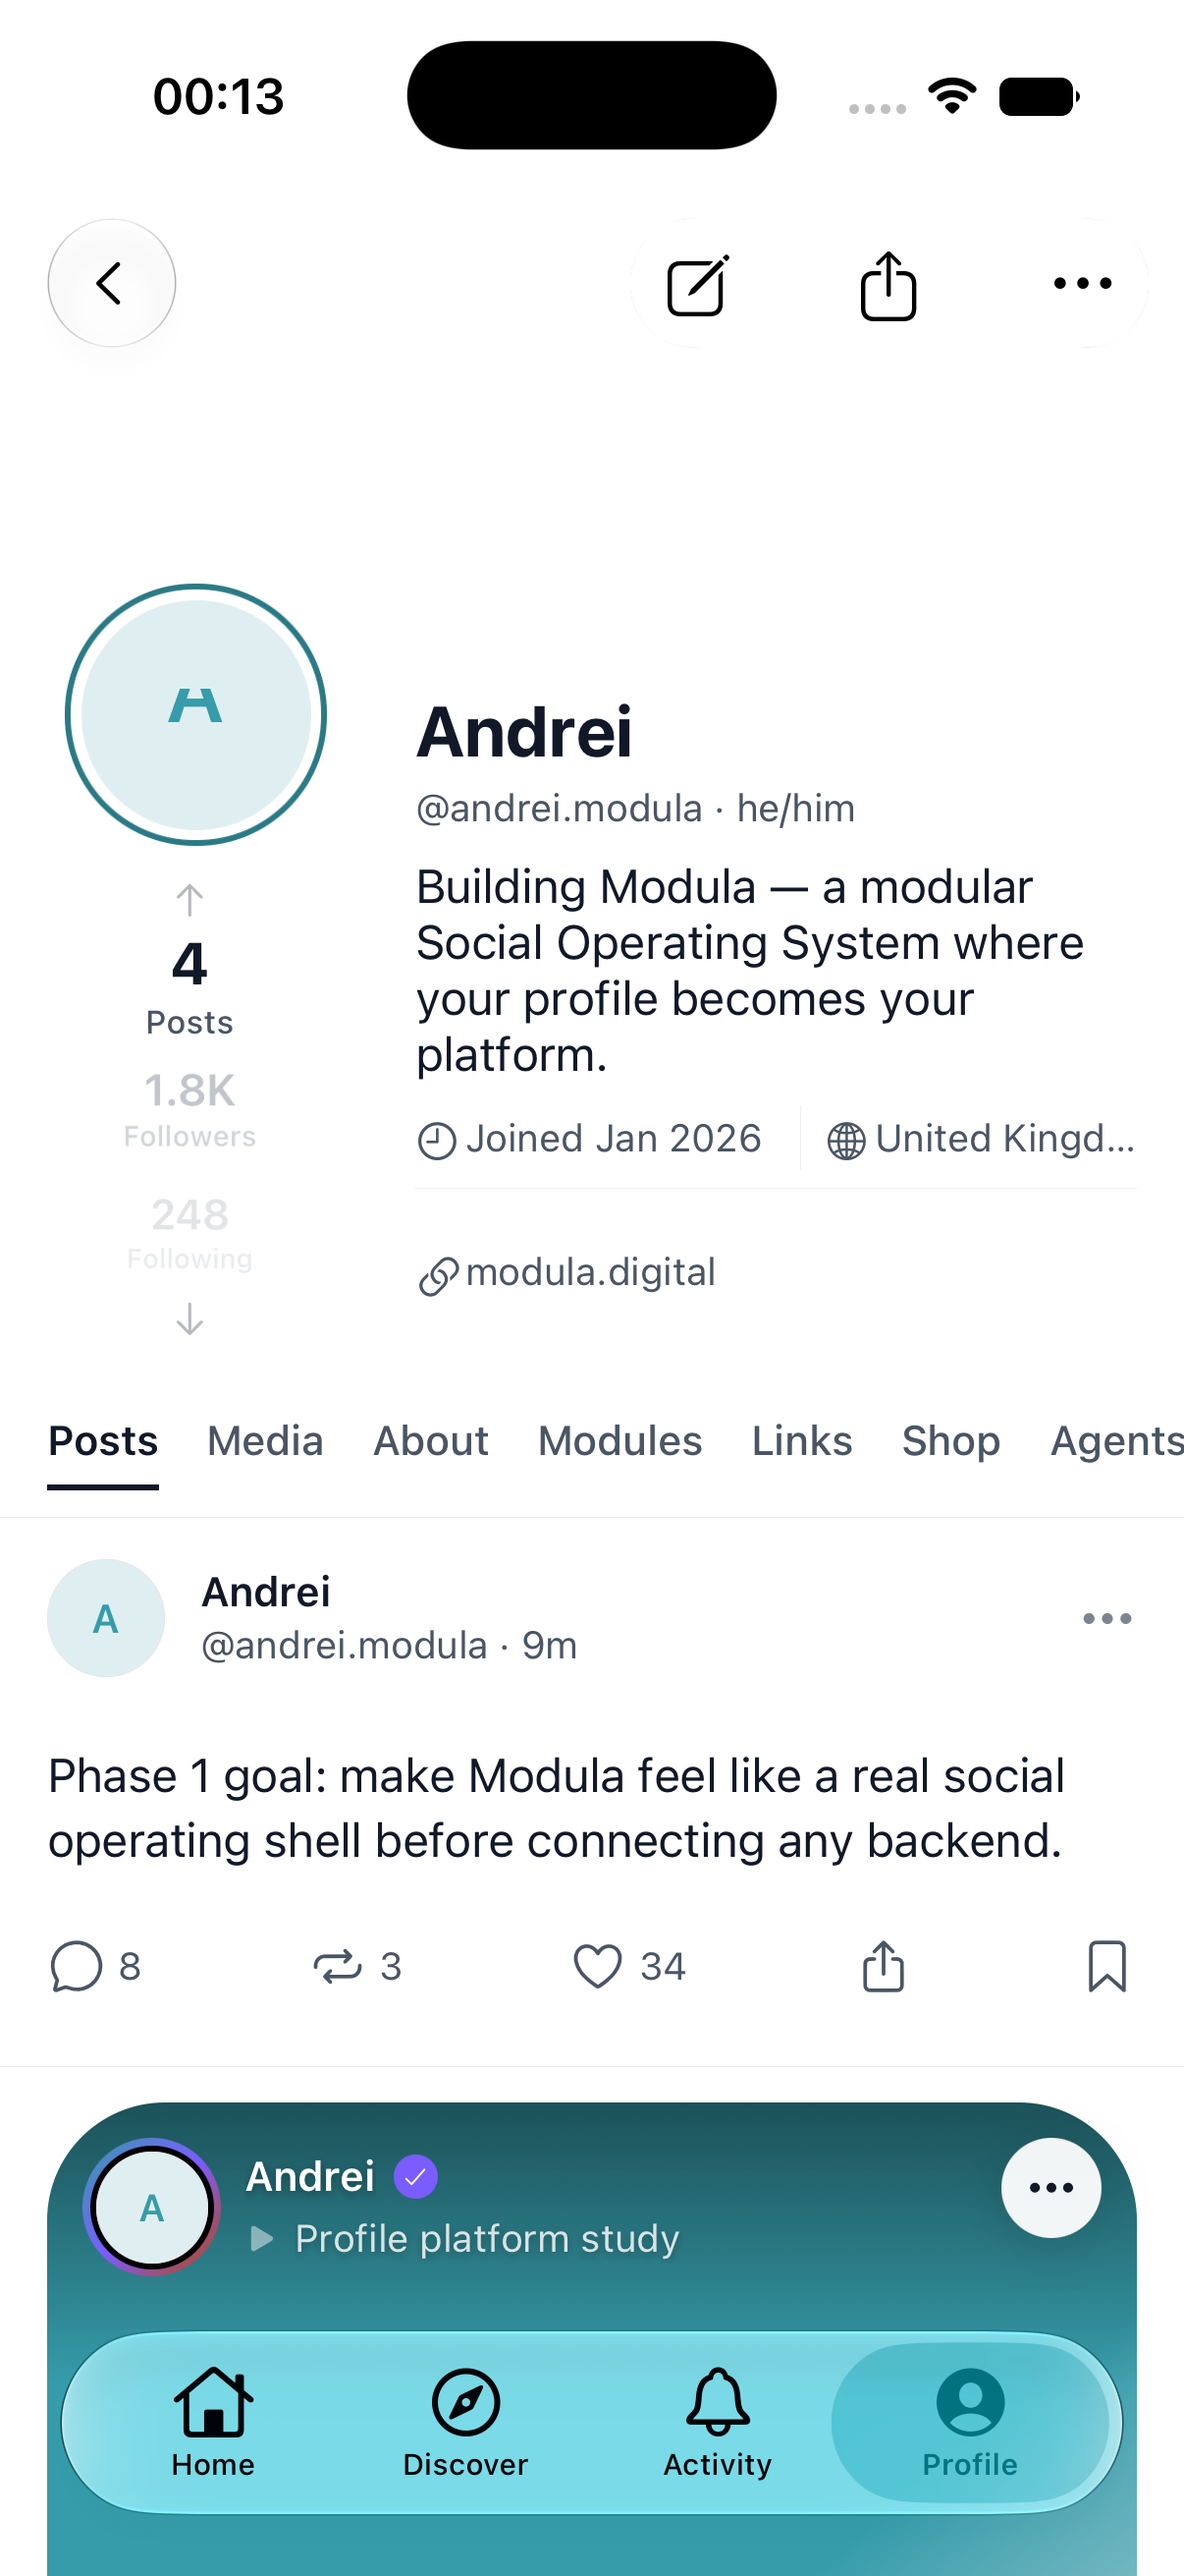
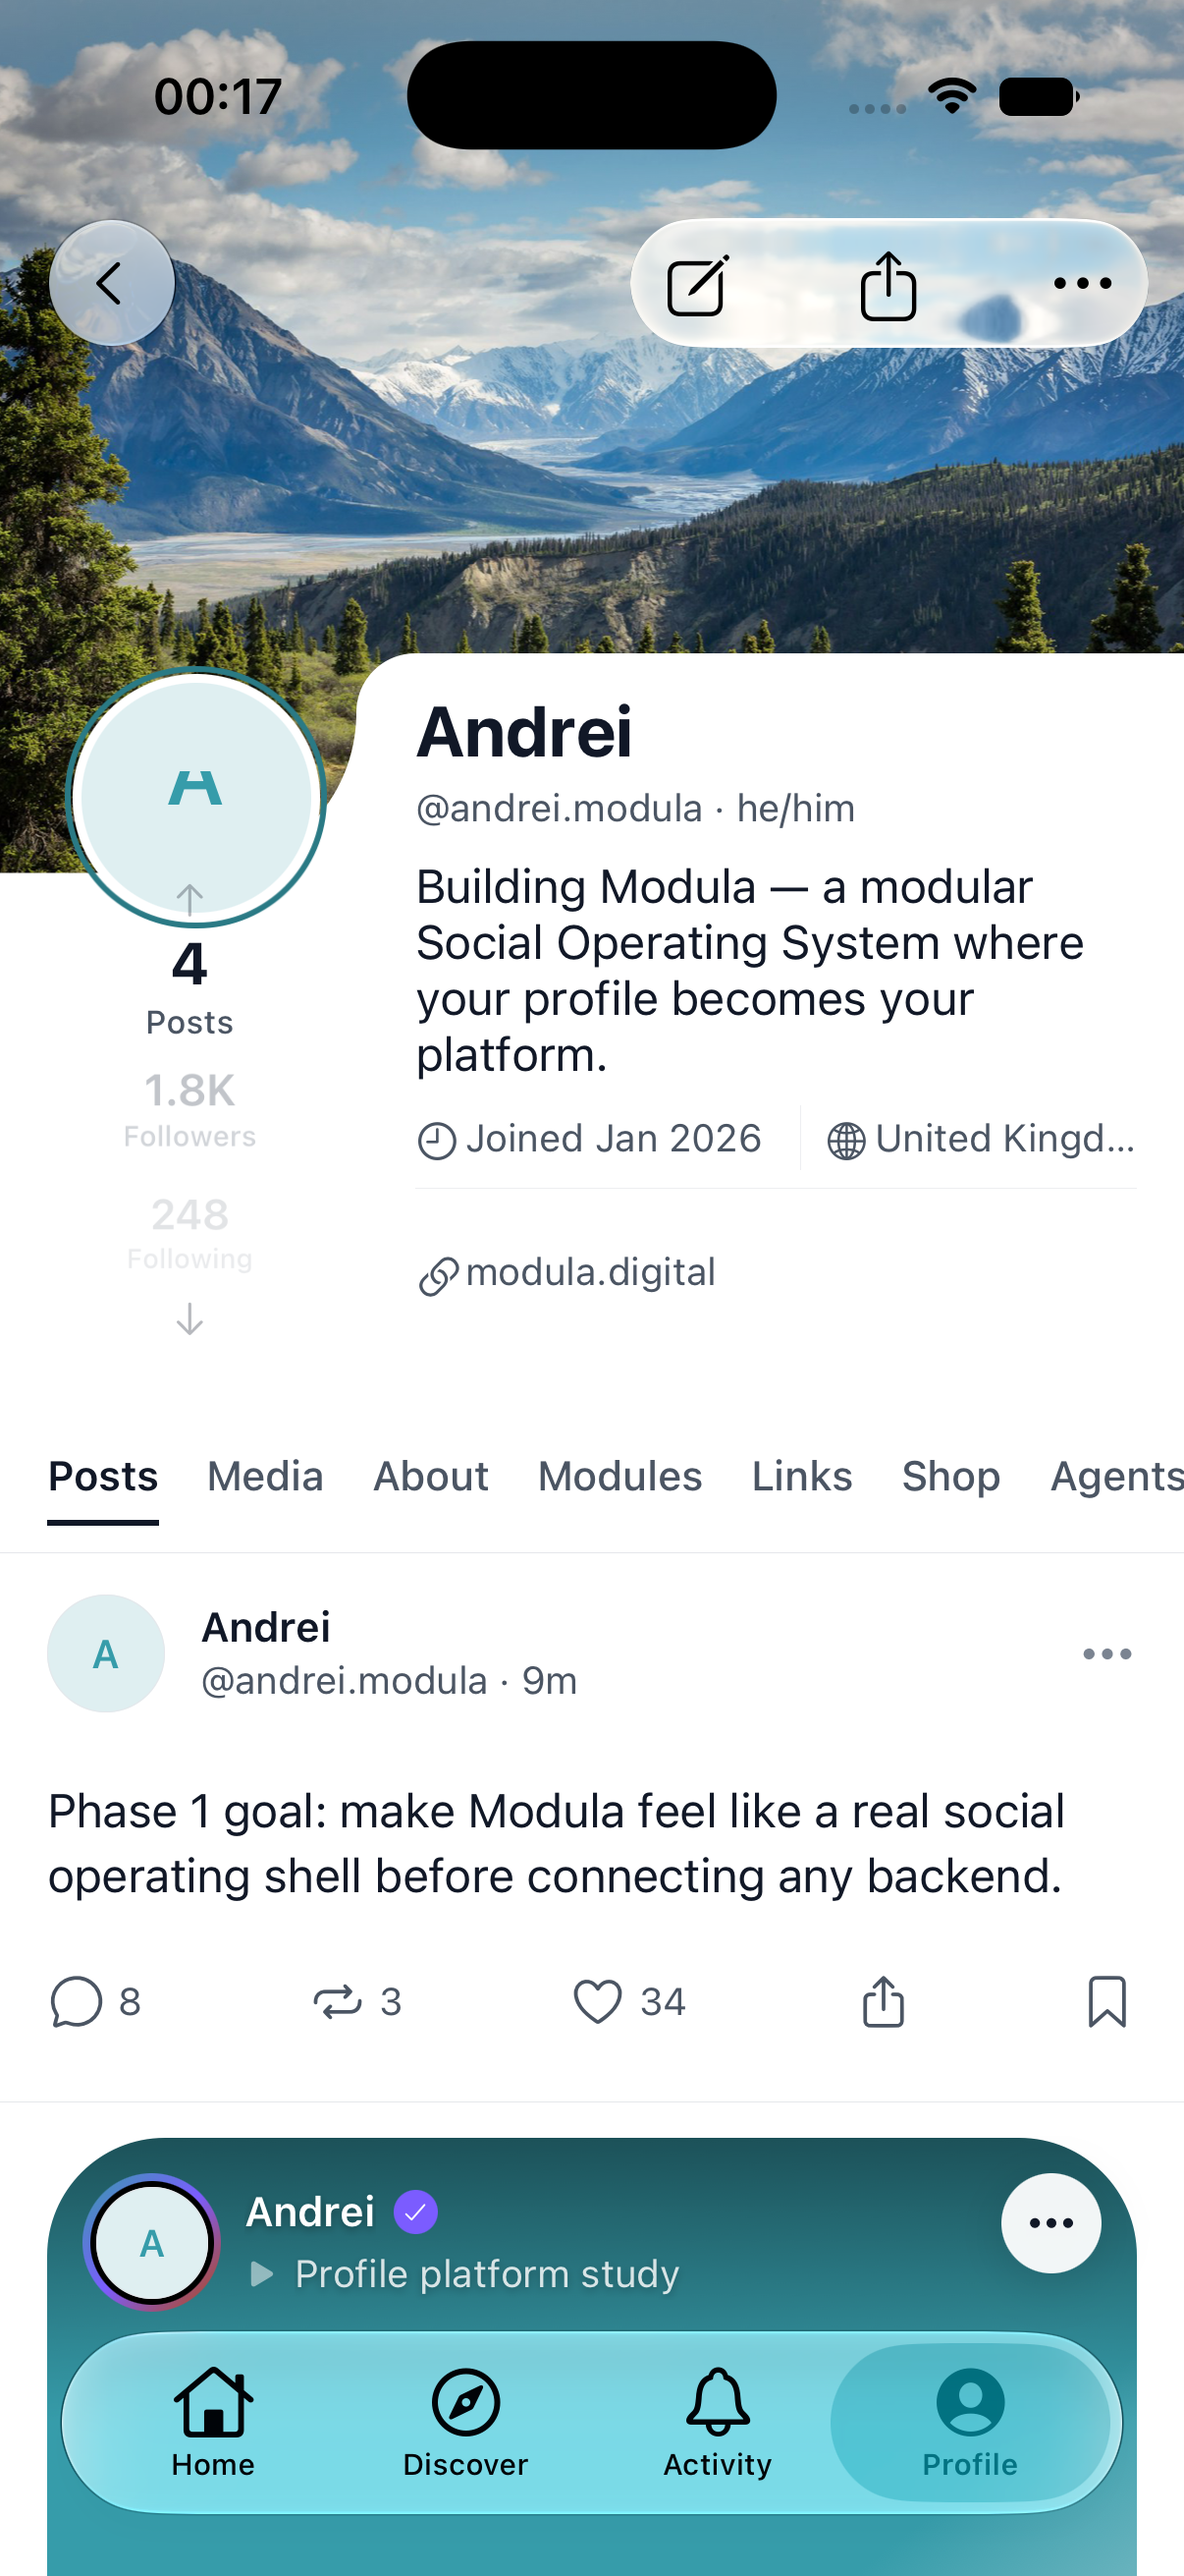
profile: restore the cover photo after the sticky crash
Keep the photograph in layout without parallax. Sticky tabs stay a
plain view so Reanimated cannot freeze the header ref.

diff --git a/src/features/profile/components/ProfileShell.tsx b/src/features/profile/components/ProfileShell.tsx
@@ -1,9 +1,9 @@
-import {useMemo, useState, type ReactNode} from 'react'
+import {useCallback, useMemo, useState, type ReactNode} from 'react'
 import {StyleSheet, View, useWindowDimensions} from 'react-native'
 import {useLocalSearchParams, useRouter, type Href} from 'expo-router'
 import Animated, {
+  runOnJS,
   useAnimatedScrollHandler,
-  useAnimatedStyle,
   useSharedValue,
 } from 'react-native-reanimated'
 import {useSafeAreaInsets} from 'react-native-safe-area-context'
@@ -165,17 +165,22 @@ export function ProfileShell({mode, handle}: ProfileShellProps) {
   const stickyFlag = useSharedValue(0)
   const insetTop = insets.top
   const stickyPad = insetTop + PROFILE_LAYOUT.stickyChromeClearance
-  const tabRestPad = spacing[3]
-  const stickyTabsStyle = useAnimatedStyle(() => ({
-    paddingTop: stickyFlag.value ? stickyPad : tabRestPad,
-  }))
+  const [tabPad, setTabPad] = useState(0)
+  const applyTabPad = useCallback((next: number) => {
+    setTabPad(current => (current === next ? current : next))
+  }, [])
   const onScroll = useAnimatedScrollHandler({
     onScroll: event => {
       const y = event.contentOffset.y
       scrollY.value = y
       const hero = headerHeight.value
-      stickyFlag.value =
-        stickyPad > 0 && (hero <= 0 || y >= hero - stickyPad) ? 1 : 0
+      const next =
+        stickyPad > 0 && (hero <= 0 || y >= hero - stickyPad) ? stickyPad : 0
+      const flag = next > 0 ? 1 : 0
+      if (flag !== stickyFlag.value) {
+        stickyFlag.value = flag
+        runOnJS(applyTabPad)(next)
+      }
     },
   })
 
@@ -353,19 +358,18 @@ export function ProfileShell({mode, handle}: ProfileShellProps) {
           </View>
         ) : null}
       </View>
-      <Animated.View
+      <View
         testID="profile-sticky-tabs"
         style={[
           styles.stickyTabs,
-          {backgroundColor: colours.canvas},
-          stickyTabsStyle,
+          {backgroundColor: colours.canvas, paddingTop: tabPad || spacing[3]},
         ]}>
         <ProfileTabBar
           tabs={visibleTabs}
           selectedTabId={selectedTabId}
           onSelectTab={setSelectedTabRequest}
         />
-      </Animated.View>
+      </View>
       <ProfileTabContent profile={profile} viewer={viewer} tab={selectedTab} />
     </Animated.ScrollView>
   )

diff --git a/src/features/profile/components/ProfileCover.tsx b/src/features/profile/components/ProfileCover.tsx
@@ -93,20 +93,24 @@ export function ProfileCover({
         },
       ]}>
       <View
-        style={[
-          styles.artwork,
-          {backgroundColor: kind === 'none' ? colours.canvas : emptyFill},
-        ]}>
-        {hasPhoto ? (
-          <Image
-            source={{uri}}
-            style={StyleSheet.absoluteFill}
-            contentFit="cover"
-            cachePolicy="memory-disk"
-          />
-        ) : kind === 'none' ? null : (
-          <CoverAtmosphere wash={emptyFill} />
-        )}
+        collapsable={false}
+        style={StyleSheet.absoluteFill}>
+        <View
+          style={[
+            styles.artwork,
+            {backgroundColor: kind === 'none' ? colours.canvas : emptyFill},
+          ]}>
+          {hasPhoto ? (
+            <Image
+              source={{uri}}
+              style={StyleSheet.absoluteFill}
+              contentFit="cover"
+              cachePolicy="memory-disk"
+            />
+          ) : kind === 'none' ? null : (
+            <CoverAtmosphere wash={emptyFill} />
+          )}
+        </View>
       </View>
       {hasPhoto ? (
         <View pointerEvents="none" style={[styles.topBlur, {height: insets.top + TOP_BLUR}]}>
@@ -187,7 +191,7 @@ export function ProfileCover({
 
 const styles = StyleSheet.create({
   artwork: {
-    ...StyleSheet.absoluteFillObject,
+    flex: 1,
   },
   cover: {
     overflow: 'hidden',
